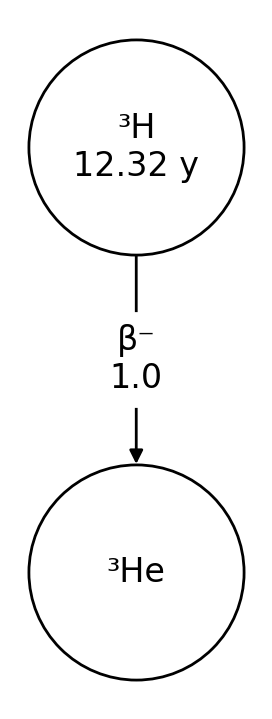
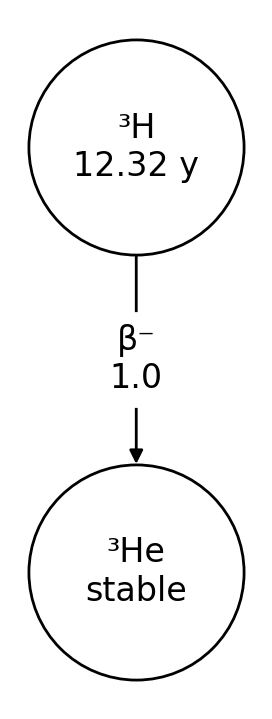
Add references for AMDC data, decay chain images now show explicitly if nuclides are stable, update contributors and acknowledgements

Changed region(s): [[0.3235, 0.7344, 0.6765, 0.8567]]

diff --git a/docs/source/overview.rst b/docs/source/overview.rst
@@ -10,10 +10,12 @@ decay calculations, and output decay data for radionuclides and decay chains.
 
 The original goal was to create a light-weight Python package for radioactive
 decay calculations, with full support for branching decays, multi-step decay
-chains, and metastable states. ``radioactivedecay`` uses the decay data from
-ICRP Publication 107 :ref:`[1] <refs>` by default. It solves the radioactive
+chains, and metastable states. By default ``radioactivedecay`` uses decay data
+from ICRP Publication 107 :ref:`[1] <refs>` and atomic mass data from the
+Atomic Mass Data Center (AMDC AME2020 and Nubase 2020 evaluations)
+:ref:`[2] <refs>`, :ref:`[3] <refs>` and :ref:`[4] <refs>`. It solves the radioactive
 decay differential equations analytically using basic linear algebra operations
-:ref:`[2] <refs>`.
+:ref:`[5] <refs>`.
 
 In order to use ``radioactivedecay``, you will need Python 3.6+ with the
 Matplotlib, NetworkX, NumPy, SciPy and SymPy packages installed. The code is
@@ -91,11 +93,11 @@ How it works
 
 ``radioactivedecay`` calculates an analytical solution to the decay chain
 differential equations using matrix and vector multiplications. It implements
-the method described in ref. :ref:`[2] <refs>`.  See the
+the method described in ref. :ref:`[5] <refs>`.  See the
 `theory docpage <https://alexmalins.com/radioactivedecay/theory.html>`_ for
-more details. It calls NumPy :ref:`[3] <refs>` and SciPy :ref:`[4] <refs>` for
+more details. It calls NumPy :ref:`[6] <refs>` and SciPy :ref:`[7] <refs>` for
 the matrix operations. There is also a high numerical precision decay
-calculation mode based on SymPy :ref:`[5] <refs>` routines.
+calculation mode based on SymPy :ref:`[8] <refs>` routines.
 
 The `notebooks directory 
 <https://github.com/alexmalins/radioactivedecay/tree/main/notebooks>`_ 
@@ -104,9 +106,9 @@ in the GitHub repository contains some Jupyter Notebooks for creating the
 <https://github.com/alexmalins/radioactivedecay/tree/main/notebooks/icrp107_dataset/icrp107_dataset.ipynb>`_
 for ``radioactivedecay``, and cross-checks against `PyNE
 <https://github.com/alexmalins/radioactivedecay/tree/main/notebooks/comparisons/pyne/rd_pyne_truncated_compare.ipynb>`_ 
-:ref:`[6] <refs>` and `Radiological Toolbox 
+:ref:`[9] <refs>` and `Radiological Toolbox 
 <https://github.com/alexmalins/radioactivedecay/tree/main/notebooks/comparisons/radiological_toolbox/radiological_toolbox_compare.ipynb>`_
-:ref:`[7] <refs>`.
+:ref:`[10] <refs>`.
 
 Limitations
 -----------
@@ -139,7 +141,7 @@ There are also some limitations associated with the ICRP-107 decay dataset:
 * There are a few instances where minor decay pathways were not included in
   ICRP-107, e.g. the decay pathways for At-219-> Rn-219 (|beta| ~3%), Es-250 ->
   Bk-246 (|alpha| ~1.5%), and U-228 -> Pa-228 (|epsilon| ~2.5%). For more
-  details see refs. :ref:`[8] <refs>` and :ref:`[9] <refs>` on the creation of
+  details see refs. :ref:`[11] <refs>` and :ref:`[12] <refs>` on the creation of
   the ICRP-107 dataset.
 * Radioactive progeny resulting from some decay pathways present in ICRP-107
   are not themselves included in the publication. The missing radionuclides all
@@ -161,6 +163,7 @@ Contributors & Contributing
 ---------------------------
 
 * `Alex Malins <https://alexmalins.com>`_
+* `Thom Lemoine <https://github.com/lemointm>`_
 
 Users are welcome to fix bugs, add new features or make feature requests.
 Please open a pull request or a new issue on the
@@ -174,15 +177,17 @@ Special thanks to:
 * `Center for Computational Science & e-Systems <https://ccse.jaea.go.jp/index_eng.html>`_, JAEA.
 * `Kenny McKee <https://github.com/Rolleroo>`_
 * `Daniel Jewell <https://github.com/danieldjewell>`_
+* `Ezequiel Pássaro <https://epassaro.github.io/>`_
+* `Shyam Dwaraknath <https://github.com/shyamd>`_
 
-for their support and assistance to this project.
+for suggestions, support and assistance to this project.
 
 Thanks also to:
 
 * `Björn Dahlgren <https://github.com/bjodah>`_ (creator of the batemaneq
-  Python package :ref:`[10] <refs>`)
+  Python package :ref:`[13] <refs>`)
 * `Anthony Scopatz <https://github.com/scopatz>`_ and the PyNE project
-  :ref:`[6] <refs>`
+  :ref:`[9] <refs>`
 * `Jonathan Morrell <https://github.com/jtmorrell>`_ (creator of the `NPAT
   <https://github.com/jtmorrell/npat>`_ and `Curie
   <https://github.com/jtmorrell/npat>`_ packages)
@@ -195,15 +200,18 @@ References
 ----------
 
 1. ICRP Publication 107: Nuclear Decay Data for Dosimetric Calculations. Ann. ICRP 38 (3), 1-96 (2008). `PDF <https://journals.sagepub.com/doi/pdf/10.1177/ANIB_38_3>`_
-2. M Amaku, PR Pascholati & VR Vanin, Comp. Phys. Comm. 181, 21-23 (2010). DOI: `10.1016/j.cpc.2009.08.011 <https://doi.org/10.1016/j.cpc.2009.08.011>`_
-3. CR Harris et al. Nat. 585, 357-362 (2020). DOI: `10.1038/s41586-020-2649-2 <https://doi.org/10.1038/s41586-020-2649-2>`_
-4. P Virtanen et al. Nat. Methods 17, 261-272 (2020). DOI: `10.1038/s41592-019-0686-2 <https://doi.org/10.1038/s41592-019-0686-2>`_
-5. A Meurer et al. PeerJ Comp. Sci. 3, e103 (2017). DOI: `10.7717/peerj-cs.103 <https://doi.org/10.7717/peerj-cs.103>`_
-6. PyNE: The Nuclear Engineering Toolkit. `https://pyne.io/ <https://pyne.io/>`_
-7. KF Eckerman, AL Sjoreen & C Sun, Radiological Toolbox, Oak Ridge National Laboratory. `https://www.ornl.gov/crpk/software <https://www.ornl.gov/crpk/software>`_
-8. A Endo, Y Yamaguchi & KF Eckerman, JAERI 1347 (2005). DOI: `10.11484/jaeri-1347 <https://doi.org/10.11484/jaeri-1347>`_
-9. A Endo & KF Eckerman, JAEA-Data/Code 2007-021 (2007). DOI: `10.11484/jaea-data-code-2007-021 <https://doi.org/10.11484/jaea-data-code-2007-021>`_
-10. B Dahlgren, batemaneq:  a C++ implementation of the Bateman equation, and a Python binding thereof. `https://github.com/bjodah/batemaneq <https://github.com/bjodah/batemaneq>`_
+2. W.J. Huang et al. Chinese Phys. C 45, 030002 (2021). DOI: `10.1088/1674-1137/abddb0 <https://doi.org/10.1088/1674-1137/abddb0>`_
+3. Meng Wang et al. Chinese Phys. C 45, 030003 (2021). DOI: `10.1088/1674-1137/abddaf <https://doi.org/10.1088/1674-1137/abddaf>`_
+4. F.G. Kondev et al. Chinese Phys. C 45, 030001 (2021). DOI: `10.1088/1674-1137/abddae <https://doi.org/10.1088/1674-1137/abddae>`_
+5. M Amaku, PR Pascholati & VR Vanin, Comp. Phys. Comm. 181, 21-23 (2010). DOI: `10.1016/j.cpc.2009.08.011 <https://doi.org/10.1016/j.cpc.2009.08.011>`_
+6. CR Harris et al. Nat. 585, 357-362 (2020). DOI: `10.1038/s41586-020-2649-2 <https://doi.org/10.1038/s41586-020-2649-2>`_
+7. P Virtanen et al. Nat. Methods 17, 261-272 (2020). DOI: `10.1038/s41592-019-0686-2 <https://doi.org/10.1038/s41592-019-0686-2>`_
+8. A Meurer et al. PeerJ Comp. Sci. 3, e103 (2017). DOI: `10.7717/peerj-cs.103 <https://doi.org/10.7717/peerj-cs.103>`_
+9. PyNE: The Nuclear Engineering Toolkit. `https://pyne.io/ <https://pyne.io/>`_
+10. KF Eckerman, AL Sjoreen & C Sun, Radiological Toolbox, Oak Ridge National Laboratory. `https://www.ornl.gov/crpk/software <https://www.ornl.gov/crpk/software>`_
+11. A Endo, Y Yamaguchi & KF Eckerman, JAERI 1347 (2005). DOI: `10.11484/jaeri-1347 <https://doi.org/10.11484/jaeri-1347>`_
+12. A Endo & KF Eckerman, JAEA-Data/Code 2007-021 (2007). DOI: `10.11484/jaea-data-code-2007-021 <https://doi.org/10.11484/jaea-data-code-2007-021>`_
+13. B Dahlgren, batemaneq:  a C++ implementation of the Bateman equation, and a Python binding thereof. `https://github.com/bjodah/batemaneq <https://github.com/bjodah/batemaneq>`_
 
 .. |alpha| unicode:: U+03B1 .. lower case alpha
 .. |beta| unicode:: U+03B2 .. lower case beta
